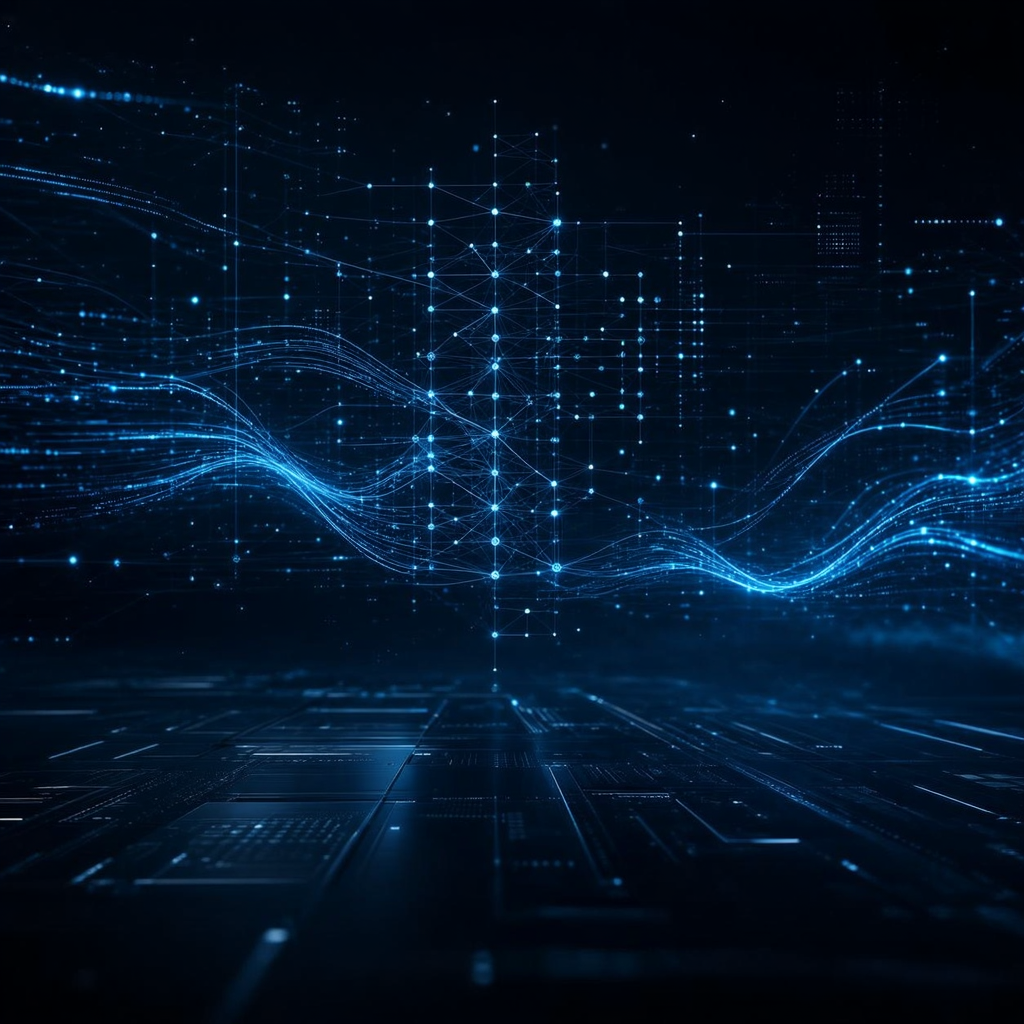
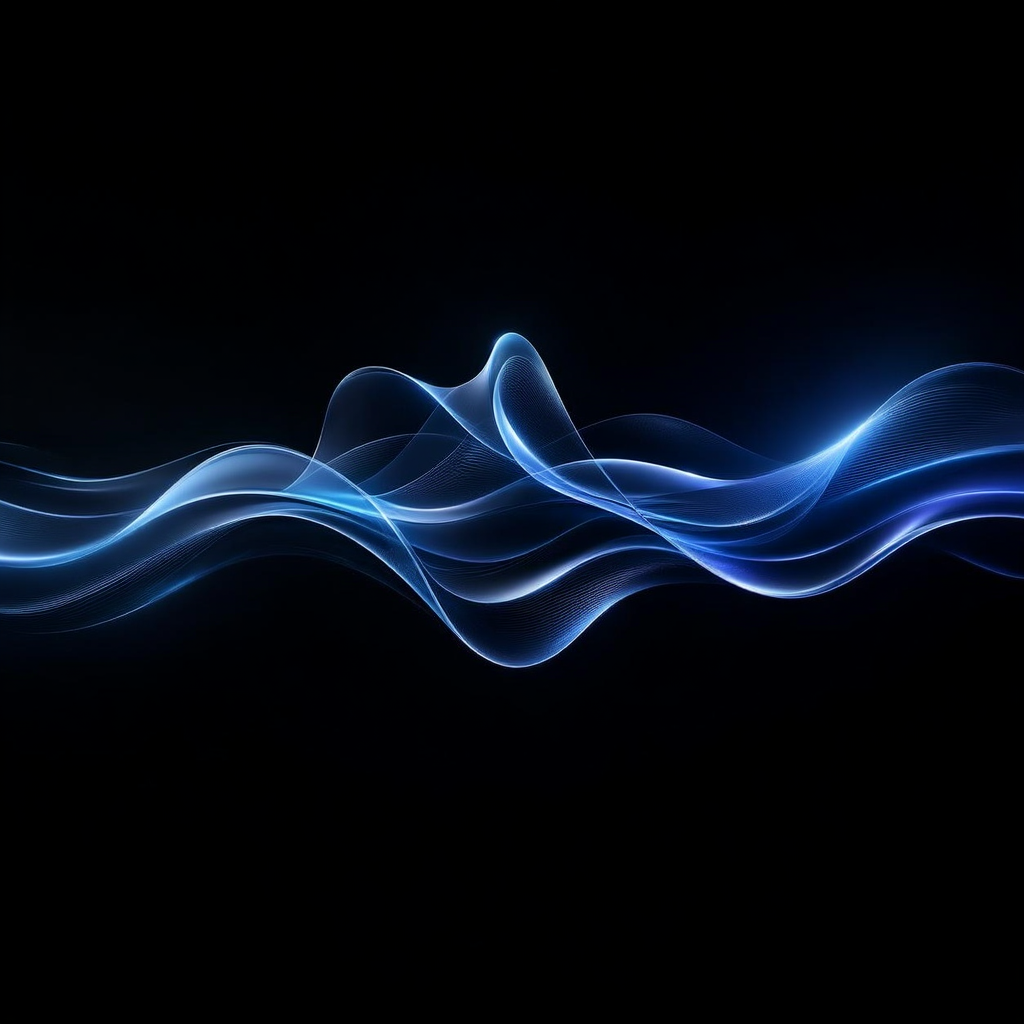
Done for now

diff --git a/style.css b/style.css
@@ -1,5 +1,4 @@
 body {
-    background-color: #000000;
     color: #f5f5f5;
 
     font-family: 'Inter', sans-serif;
@@ -10,6 +9,11 @@ body {
 
     line-height: 1.8;
     font-size: 20px;
+    
+    background-repeat: no-repeat;
+    background-size: cover;
+    background-position: center;
+
 }
 
 
@@ -80,7 +84,7 @@ p a:hover {
 
 img {
     border-radius: 50%;
-    border: 4px solid #4da3ff;
+    border: 4px solid #c5c5c5;
 }
 
 hr {
@@ -115,4 +119,62 @@ li a:hover {
     gap: 60px;
     align-items: center;
     min-height: 70vh;
+}
+.home-page {
+    background-image:
+        linear-gradient(
+            rgba(0, 0, 0, 0.91),
+            rgba(0, 0, 0, 0.91)
+        ),
+        url("images/home_bg.png");
+
+    background-repeat: no-repeat;
+    background-size: cover;
+    background-position: center;
+    background-attachment: fixed;
+    min-height: 100vh;
+}
+
+.about-page {
+    background-image:
+        linear-gradient(
+            rgba(0, 0, 0, 0.99),
+            rgba(0, 0, 0, 0.99)
+        ),
+        url("images/about_bg.png");
+
+    background-repeat: no-repeat;
+    background-size: cover;
+    background-position: center;
+    background-attachment: fixed;
+    min-height: 100vh;
+}
+.projects-page {
+    background-image:
+        linear-gradient(
+            rgba(0, 0, 0, 0.91),
+            rgba(0, 0, 0, 0.91)
+        ),
+        url("images/projects_bg.png");
+
+    background-repeat: no-repeat;
+    background-size: cover;
+    background-position: center;
+    background-attachment: fixed;
+    min-height: 100vh;
+}
+
+.contact-page {
+    background-image:
+        linear-gradient(
+            rgba(0, 0, 0, 0.99),
+            rgba(0, 0, 0, 0.99)
+        ),
+        url("images/contact_bg.png");
+
+    background-repeat: no-repeat;
+    background-size: cover;
+    background-position: center;
+    background-attachment: fixed;
+    min-height: 100vh;
 }

diff --git a/index.html b/index.html
@@ -12,7 +12,9 @@
     <link rel="stylesheet" href="style.css">
 
 </head>
-<body>
+<body class="home-page">
+
+    
 
 <nav>
     <a href="index.html">Home</a> |
@@ -24,8 +26,7 @@
 <hr>
 
     <h1>Jonathan Oh</h1>
-    <img src="images/jonathan.jpg"
-        width="200">
+
 
     <h3>Create AI workflow projects</h3>
 

diff --git a/about.html b/about.html
@@ -6,7 +6,7 @@
     <title>About - Jonathan Oh</title>
     <link rel="stylesheet" href="style.css">
 </head>
-<body>
+<body class="about-page">
 
 <nav>
     <a href="index.html">Home</a> |
@@ -18,7 +18,8 @@
 <hr>
 
 <h1>About Me</h1>
-
+    <img src="images/jonathan.jpg"
+        width="200">
 <p>
 Data Science & BI Senior.
 Background in business

diff --git a/contact.html b/contact.html
@@ -5,7 +5,7 @@
     <title>Contact - Jonathan Oh</title>
     <link rel="stylesheet" href="style.css">
 </head>
-<body>
+<body class="contact-page">
 <nav>
     <a href="index.html">Home</a> |
     <a href="about.html">About</a> |
@@ -16,9 +16,6 @@
 <hr>
 
 <h1>Contact</h1>
-
-    <img src="images/jonathan.jpg"
-    width="200">
 
 <h3>
 Connect with me

diff --git a/projects.html b/projects.html
@@ -8,6 +8,7 @@
     <a href="contact.html">Contact</a>
 </nav>
 
+<body class="projects-page">
 <hr>
 
 <h1>My AI Projects
@@ -73,4 +74,5 @@ Coming Soon...
 This project will explore how AI can be integrated into automated workflows to improve productivity, streamline processes, and create practical business solutions.
 </p>
 
+</body>
 </html>